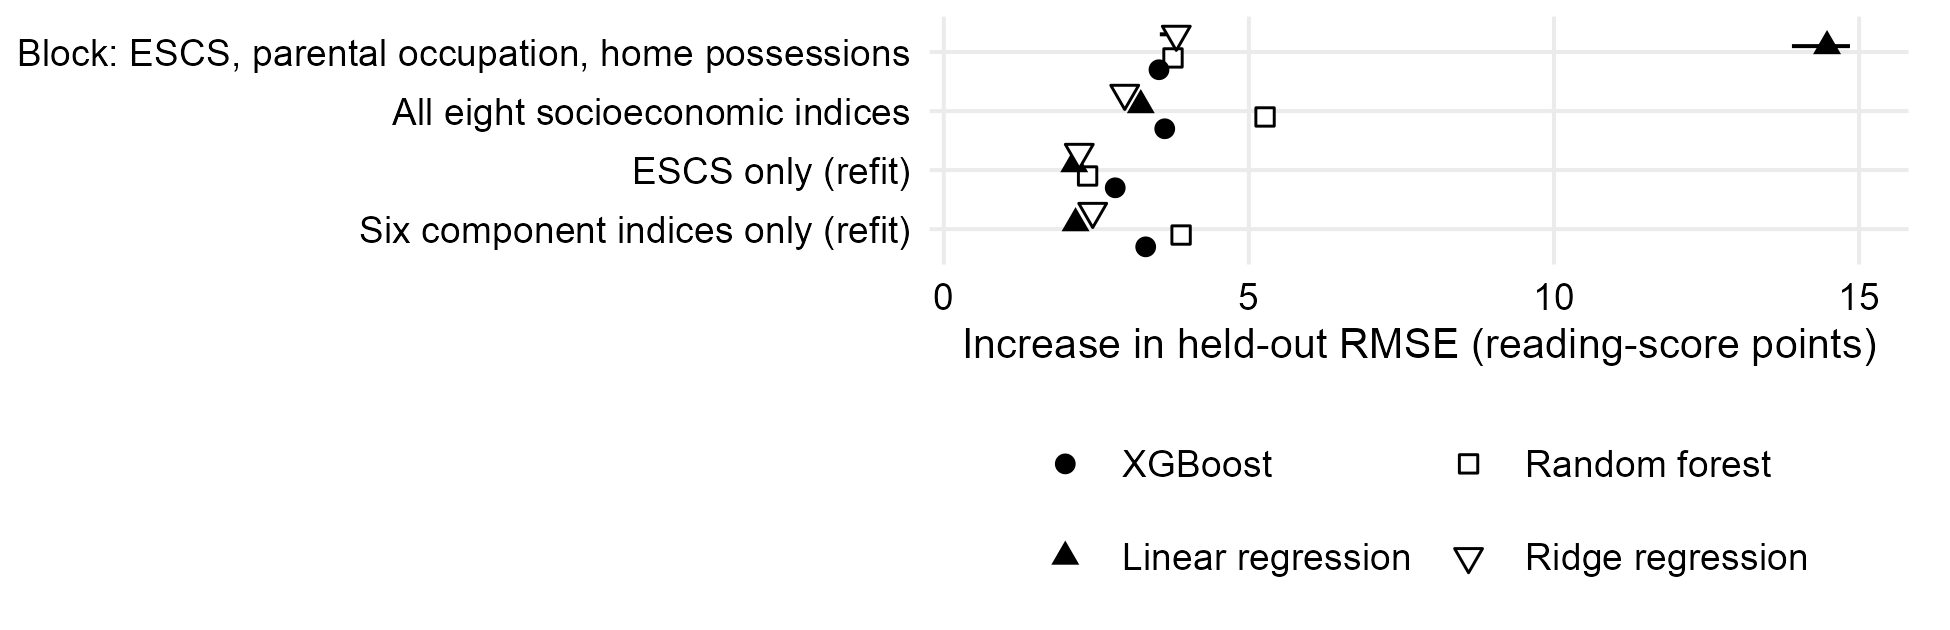
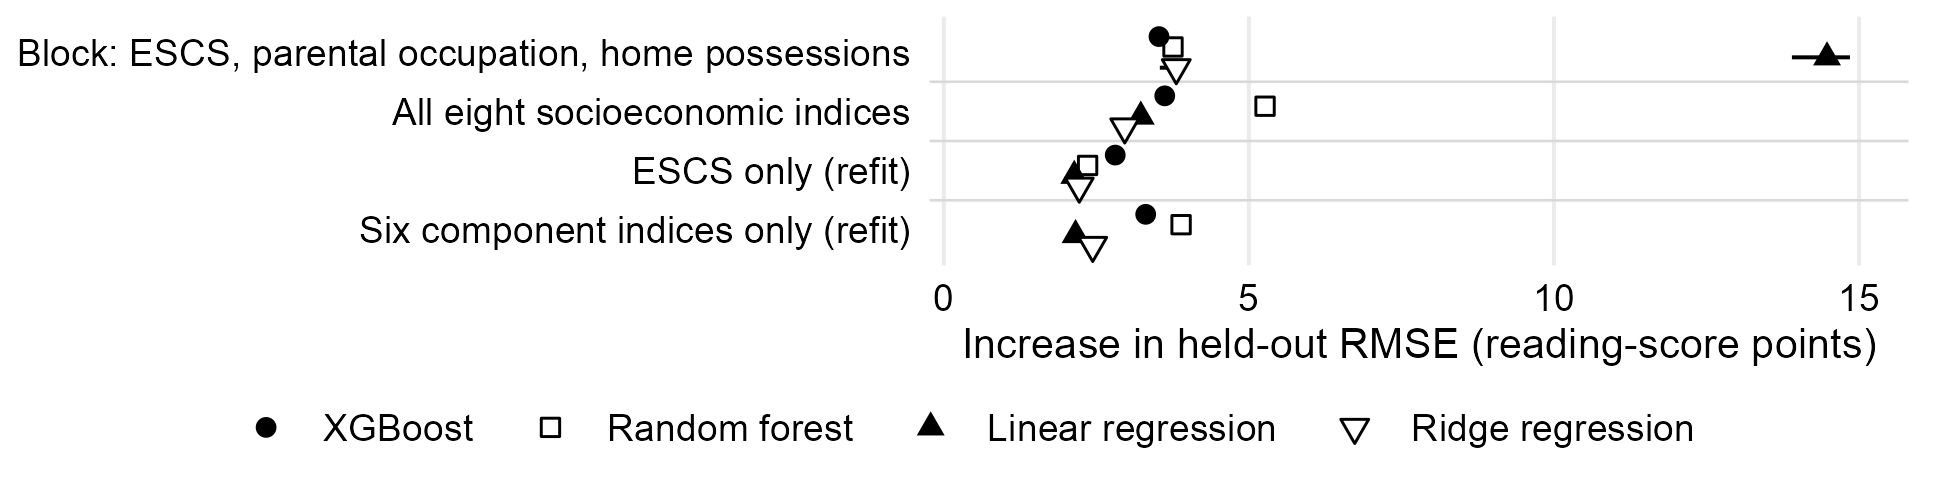
Release 1.0.5: Figure 3 with row separators, supplement letters in the README

diff --git a/README.md b/README.md
@@ -26,8 +26,8 @@ results are not included (see [Data](#data)).
 | `analysis/pisa/preprocess_PISA_v2.R`, `analysis/pisa/pisa2018_reading_compactv2_manifest.csv` | Extraction of the 32-country analytic extract from the public OECD PISA 2018 files, and the variable table of the extract used in the article. |
 | `analysis/pisa/run_pv1_matched_controls.R`, `analysis/pisa/run_loco_country_calibration_bootstrap.R`, `analysis/pisa/results/` | PISA matched-control summaries of the primary run (Table S28, country exclusion; `analysis/pisa/results/pisa_matched_control_50/`) and country-calibration summaries (retained; not reported in the article). |
 | `analysis/targeted/` | Probability versus log-odds surrogates and number of perturbed points in SHILD, the three-model PISA importance summary across plausible values, and the controlled examples (`controlled_examples.R`, Supplement G); controller `run.R`; public results in `analysis/targeted/results/`. |
-| `analysis/simulation/criteria_simulation.R` | Simulation of the operating characteristics of the decision criteria (Supplement M); design and outputs in `analysis/simulation/README.md`. |
-| `analysis/simulation/workflow_simulation.R` | Simulation of the workflow from the exploratory claim to its test on new data, compared with reporting from point estimates and with each component of the default rule alone (Figure 2 of the article, Supplement M); design, verification against `mlr3autoiml` 0.3.0, and outputs in `analysis/simulation/README.md`. |
+| `analysis/simulation/criteria_simulation.R` | Simulation of the operating characteristics of the decision criteria (Supplement L); design and outputs in `analysis/simulation/README.md`. |
+| `analysis/simulation/workflow_simulation.R` | Simulation of the workflow from the exploratory claim to its test on new data, compared with reporting from point estimates and with each component of the default rule alone (Figure 2 of the article, Supplement L); design, verification against `mlr3autoiml` 0.3.0, and outputs in `analysis/simulation/README.md`. |
 | `analysis/sensitivity/` | Sensitivity analyses of Supplement I, Figure S2b, numerical checks of statements in the article (`article_checks.R`), the numbers the article derives from fold-level aggregates (`article_derivations.R`), and the fold-level check of claim K1 of Khan et al. (`khan_k1.R`, Table S41). |
 | `analysis/render_*.R` | Figure rendering from stored aggregates. |
 | `analysis/shared/`, `analysis/tests/` | Shared helpers and tests. |
@@ -117,8 +117,8 @@ Rscript analysis/sensitivity/article_derivations.R              # numbers derive
 Rscript analysis/sensitivity/khan_k1.R                          # claim K1 of Khan et al. (Table S41)
 Rscript analysis/targeted/run.R --mode=aggregate                # three-model PISA summary (Table S34), Figures S1 and S3
 Rscript analysis/targeted/run.R --mode=synthetic                # controlled examples (Supplement G)
-Rscript analysis/simulation/criteria_simulation.R --workers=3   # criteria simulation (Supplement M)
-Rscript analysis/simulation/workflow_simulation.R --workers=6   # workflow simulation (Figure 2, Supplement M), about 15 minutes
+Rscript analysis/simulation/criteria_simulation.R --workers=3   # criteria simulation (Supplement L)
+Rscript analysis/simulation/workflow_simulation.R --workers=6   # workflow simulation (Figure 2, Supplement L), about 15 minutes
 python3 supplement/build_supplement.py --verify                 # computational supplement: checksums and privacy checks
 python3 supplement/assemble_publication.py --output build/supplement   # computational supplement PDF (XeLaTeX)
 ```
@@ -184,13 +184,13 @@ cases or respondents per row. The primary SHILD analysis and the evidence synthe
 | Figure S2b | `analysis/sensitivity/render_paired_difference_figure.R` | `analysis/sensitivity/results/shild_common_probability_paired_rmse_difference.pdf` |
 | Figure S3 (panels a to d) | `analysis/targeted/render_targeted_figures.R`; APA labels of panels b and c by `analysis/render_decimal_figures.R` | `analysis/targeted/results/shild/shild_{common_probability_weighted_rmse,common_probability_weighted_r2,convergence_weighted_r2,convergence_weighted_rmse}.pdf` |
 | Table S41, claim K1 of Khan et al. (our random forest learner: fold-level comparison of self-rated health and depressiveness) | `analysis/sensitivity/khan_k1.R` | `analysis/sensitivity/results/khan_k1_random_forest_{folds,summary}.csv` |
-| Figure S4, Table S42, and Supplement M (simulation of the decision criteria) | `analysis/simulation/criteria_simulation.R` | `analysis/simulation/results/criteria_simulation.pdf`, `criteria_summary.csv` |
-| Figure 2, Tables S43 and S44, and Supplement M (simulation of the workflow) | `analysis/simulation/workflow_simulation.R` (`--mode=verify` with `mlr3autoiml` 0.3.0; `--mode=figure` redraws the figure) | `analysis/simulation/results/workflow/` |
+| Figure S4, Table S42, and Supplement L (simulation of the decision criteria) | `analysis/simulation/criteria_simulation.R` | `analysis/simulation/results/criteria_simulation.pdf`, `criteria_summary.csv` |
+| Figure 2, Tables S43 and S44, and Supplement L (simulation of the workflow) | `analysis/simulation/workflow_simulation.R` (`--mode=verify` with `mlr3autoiml` 0.3.0; `--mode=figure` redraws the figure) | `analysis/simulation/results/workflow/` |
 | Stronger SHILD claim with 500 permutations per fold, its neighboring criteria, and the bootstrap of the held-out folds (Supplements D and I; Table 5) | `analysis/shild/package_check.R` | `analysis/shild/results/package_check/stronger_claim_{precise_folds,precise_summary,fold_bootstrap,permutations}.csv` |
 | Table S13 (SHILD sample) | primary SHILD run (`analysis/run_all.R`; `analysis/shild/analysis.R`) | sample flow, class balance, and missingness tables of the run |
 | Tables S15 and S16 (PISA predictors and countries) | `analysis/pisa/preprocess_PISA_v2.R` (extraction) and `analysis/pisa/prepare_data.R` | `analysis/pisa/pisa2018_reading_compactv2_manifest.csv` and the prepared data |
 | Table S20 (PISA permutation and refit designs) | `analysis/pisa/ses_reanalysis.R` | `analysis/pisa/results/ses_reanalysis/` |
-| Supplement D.12 and Table S21 (tuning checks; Table S21 lists the configurations chosen in PISA) | `analysis/shild/tuning_check.R`, `analysis/pisa/tuning_check.R` | `analysis/shild/results/tuning_check/`, `analysis/pisa/results/ses_reanalysis/tuning_check/` |
+| Supplement D.11 and Table S21 (tuning checks; Table S21 lists the configurations chosen in PISA) | `analysis/shild/tuning_check.R`, `analysis/pisa/tuning_check.R` | `analysis/shild/results/tuning_check/`, `analysis/pisa/results/ses_reanalysis/tuning_check/` |
 | Tables S27 and S28 (diagnostics on which no claim depends) | primary runs (`analysis/run_all.R`); matched controls: `analysis/pisa/run_pv1_matched_controls.R` | `supplement/shild/tables/`, `supplement/pisa/tables/`, `analysis/pisa/results/pisa_matched_control_50/`, `final_docs/PISA_LOCO_MATCHED_CONTROL_CONTEXT_BY_PV.csv` |
 | Table S22 (claims and criteria of the PISA confirmatory stage as fixed in advance) | `analysis/pisa/confirmatory_claims.md`, quoted word for word | — |
 | Supplement G (numerical example and unequal reliability) | `analysis/targeted/run.R --mode=synthetic` | `analysis/targeted/results/controlled/` |
@@ -231,7 +231,7 @@ If you use this code, please cite the article and the repository (see `CITATION.
   support? Claim-Scoped Diagnostic Gates for interpretable machine learning in psychology* [Manuscript submitted for
   publication].
 - Coors, S., Vetter, C. S., Hauck, J., Bischl, B., & Hilbert, S. (2026). *Analyses for "Which Conclusions Does an
-  Explanation Support?" (CSDG)* (Version 1.0.4) [Computer software]. GitHub. <https://github.com/coorsaa/csdg-analysis>
+  Explanation Support?" (CSDG)* (Version 1.0.5) [Computer software]. GitHub. <https://github.com/coorsaa/csdg-analysis>
 
 ## License
 
